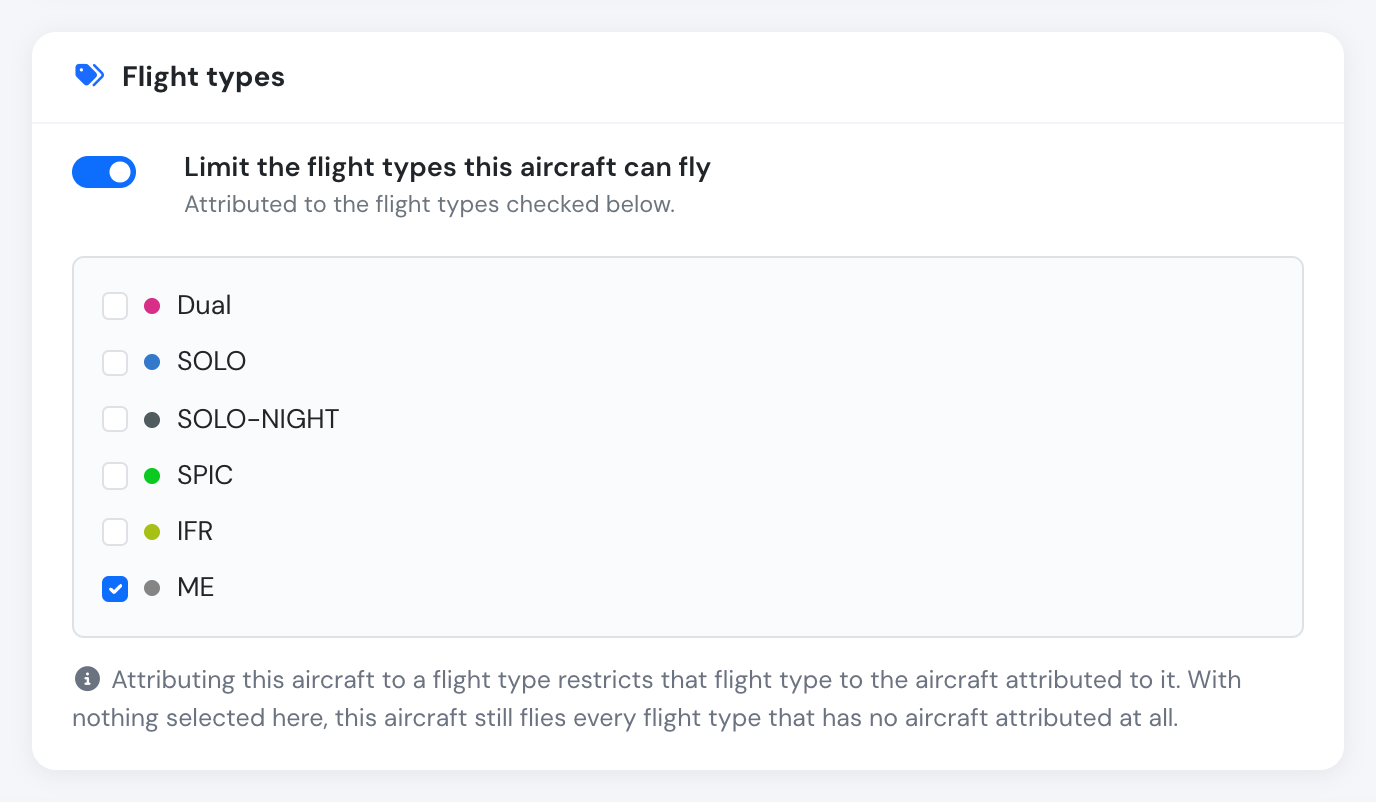
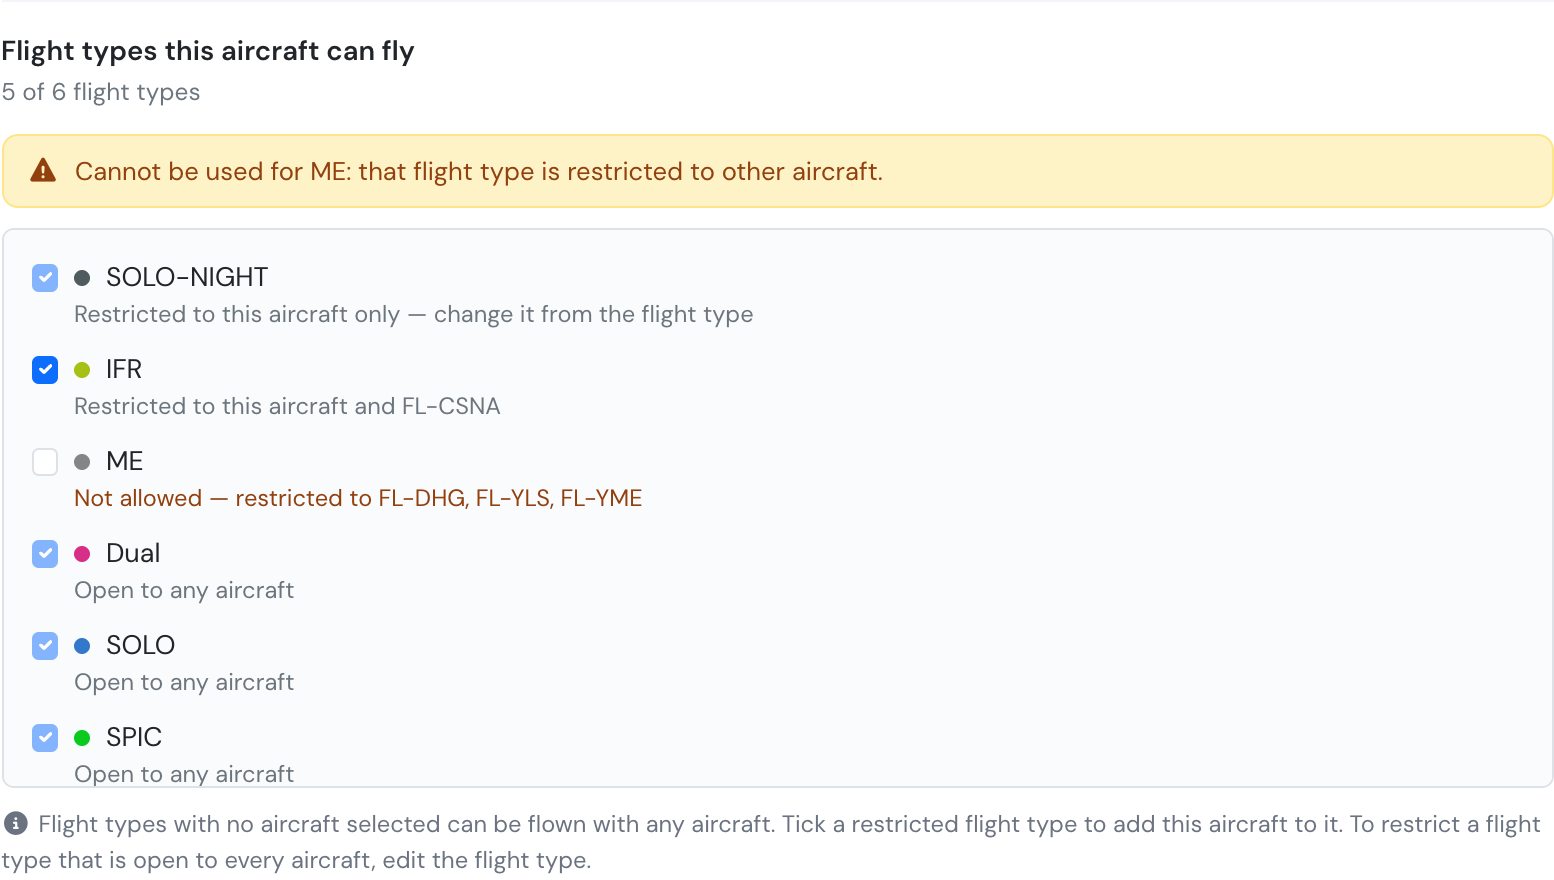
docs(aircraft): flight types card shows every type's restriction
Rewrite "Which flight types an aircraft can fly" for the new card
(open / restricted with others / restricted to this aircraft only /
not allowed, locked rows) with a new screenshot, and update the
cross-reference on the flight types page.

diff --git a/aircraft/create-your-aircraft.md b/aircraft/create-your-aircraft.md
@@ -96,24 +96,27 @@ A live counter under the dropdown shows how many pilots would have self-schedule
 
 ### Which flight types an aircraft can fly
 
-Under **Scheduling** on the aircraft edit page there is a **Flight types** card. It is the aircraft's side of the aircraft restriction that lives on the [flight type](../flights/flight-types.md#aircraft) — the same setting, edited from whichever end is more convenient. Restricting one simulator type to two simulators is quicker from the flight type; setting up a newly delivered twin for the three types it may fly is quicker from here.
+Under **Scheduling** on the aircraft edit page there is a **Flight types this aircraft can fly** card. It shows the [aircraft restriction set on each flight type](../flights/flight-types.md#aircraft) from the aircraft's point of view: every flight type in the company, and whether this aircraft may be used for it. It is the same answer the flight form and the Schedule Manager give, so when an aircraft cannot be picked for a flight type, this is the place to look.
 
-<figure><img src="../.gitbook/assets/aircraft-flight-types.png" alt="The Flight types card on the aircraft edit page, with the limit switch on and the ME flight type ticked"><figcaption><p>FL-YME, a Seneca, attributed to the <em>ME</em> flight type. Every flight type in the company is listed; tick the ones this aircraft should be attributed to.</p></figcaption></figure>
+<figure><img src="../.gitbook/assets/aircraft-flight-types.png" alt="The Flight types this aircraft can fly card on FL-172: 5 of 6 flight types, a yellow note that it cannot be used for ME, and the list of flight types with their restriction"><figcaption><p>FL-172 can fly five of the six flight types. <em>ME</em> is restricted to the twins, so FL-172 cannot be used for it.</p></figcaption></figure>
 
-The important part is what an **empty** selection means, because it is not what it first looks like:
+Each flight type shows one of these lines under its name:
 
-| Nothing ticked | This aircraft flies **every flight type that has no aircraft attributed to it at all** |
-|---|---|
-| **Something ticked** | Those flight types become restricted to this aircraft (plus any other aircraft already attributed to them) |
+| Line under the flight type | What it means | Can you change it here? |
+|---|---|---|
+| **Open to any aircraft** | The flight type has no aircraft selected, so every aircraft can fly it. | No — to restrict it, edit the flight type. |
+| **Restricted to this aircraft and …** | The flight type is limited to a list of aircraft, and this one is on it. | Yes — untick to take this aircraft off the list. |
+| **Not allowed — restricted to …** (amber) | The flight type is limited to other aircraft. This aircraft cannot be used for it. | Yes — tick to add this aircraft to the list. |
+| **Restricted to this aircraft only** | This is the only aircraft on the flight type's list. | No — edit the flight type. |
 
-So an aircraft with nothing ticked is **not grounded** — that is the normal state for most of a fleet, and it is why the card starts empty on every existing aircraft. The reading of an empty list belongs to the flight type, not to the aircraft: a flight type nobody has restricted is open to everything.
+When one or more flight types are not allowed, a yellow note at the top of the card names them, so you don't need to scroll the list to find the one that is blocking a flight.
 
-Two things follow from that, and the card says so in the note under it:
+Some boxes are locked on purpose. Ticking or unticking them here would change the flight type for the **whole fleet**:
 
-* **Ticking a flight type here restricts that flight type.** If *Night* was open to the whole fleet and you tick it on one aircraft, *Night* is now flyable on that aircraft only. That is a company-wide change made from an aircraft page — deliberate, but worth knowing before you tick.
-* **Unticking the last aircraft reopens the flight type.** Remove the only aircraft attributed to a type and the type goes back to "any aircraft", not "no aircraft".
+* Restricting an open flight type from one aircraft would limit it to that aircraft only and take it away from every other aircraft.
+* Removing the last aircraft from a flight type would leave its list empty, and an empty list means **any aircraft**, not none.
 
-If you want an aircraft simply excluded from one flight type, do it from the [flight type](../flights/flight-types.md#aircraft) instead: tick the aircraft that *may* fly it, and everything else is excluded by construction.
+To make those changes, open the [flight type](../flights/flight-types.md#aircraft) and choose the aircraft that may fly it. Everything else is excluded.
 
 Your aircraft can also be configured for rental individually. You can specify different rental rates for different services. This rates at the same time, can also be customized for each pilot later on.
 

diff --git a/flights/flight-types.md b/flights/flight-types.md
@@ -131,7 +131,7 @@ Restricted aircraft show as green tags under the type in the flight types list, 
 
 #### Editing it from the aircraft instead
 
-The same links can be edited from the other end, on the aircraft's own page — see [Which flight types an aircraft can fly](../aircraft/create-your-aircraft.md#which-flight-types-an-aircraft-can-fly). It is one relationship seen from two sides, so a change made there shows up here and vice versa.
+Each aircraft's edit page shows the same restriction from the aircraft's side: every flight type, and whether that aircraft may fly it — including the flight types that are restricted to *other* aircraft. There you can add or remove the aircraft on a flight type that is already restricted; opening a flight type to every aircraft, or restricting an open one, is done here. See [Which flight types an aircraft can fly](../aircraft/create-your-aircraft.md#which-flight-types-an-aircraft-can-fly).
 
 #### Where the restriction is applied
 
